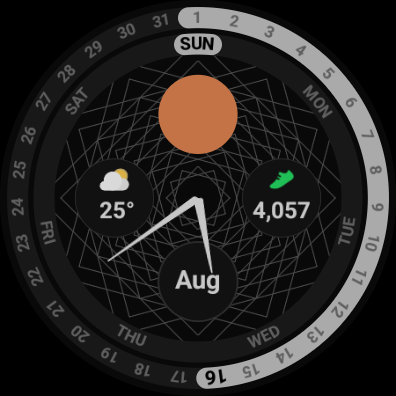
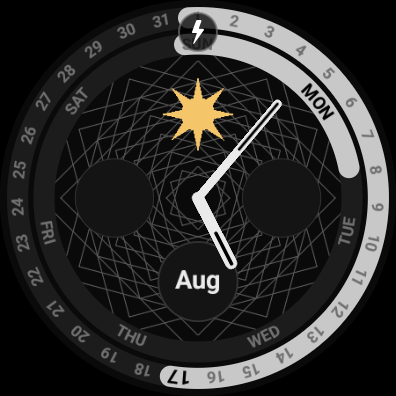
Update README screenshot and week-ring progress description
Point the README at a fresh device screenshot instead of the stale
illustrated mockup, and describe the week ring's intra-day creep
toward the next weekday label.

diff --git a/README.md b/README.md
@@ -2,11 +2,11 @@
 
 A Wear OS watch face built with the [Watch Face Format](https://developer.android.com/training/wearables/wff) — pure declarative XML, no app code.
 
-![Concentric watch face](screenshot-framed.png)
+![Concentric watch face](screenshot.png)
 
 ## Design
 
-- Two concentric progress rings around the dial: an inner **week** ring (curved weekday labels, starting Sunday) and an outer **month** ring (curved day-of-month numbers, spaced by the actual number of days in the current month). Each ring fills from the start of the week/month up to today, so your position in both is visible at a glance.
+- Two concentric progress rings around the dial: an inner **week** ring (curved weekday labels, starting Sunday) and an outer **month** ring (curved day-of-month numbers, spaced by the actual number of days in the current month). The week fill covers through today and creeps toward the next weekday across the day (in two-hour steps), so just before midnight it barely touches tomorrow's label. The month ring fills from the start of the month up to today's date.
 - A 12 o'clock sun by day and moon by night.
 - Two complication slots (3 and 9 o'clock) plus a static current-month label (6 o'clock).
 - Classic tapered analog hour/minute hands, no second hand.
